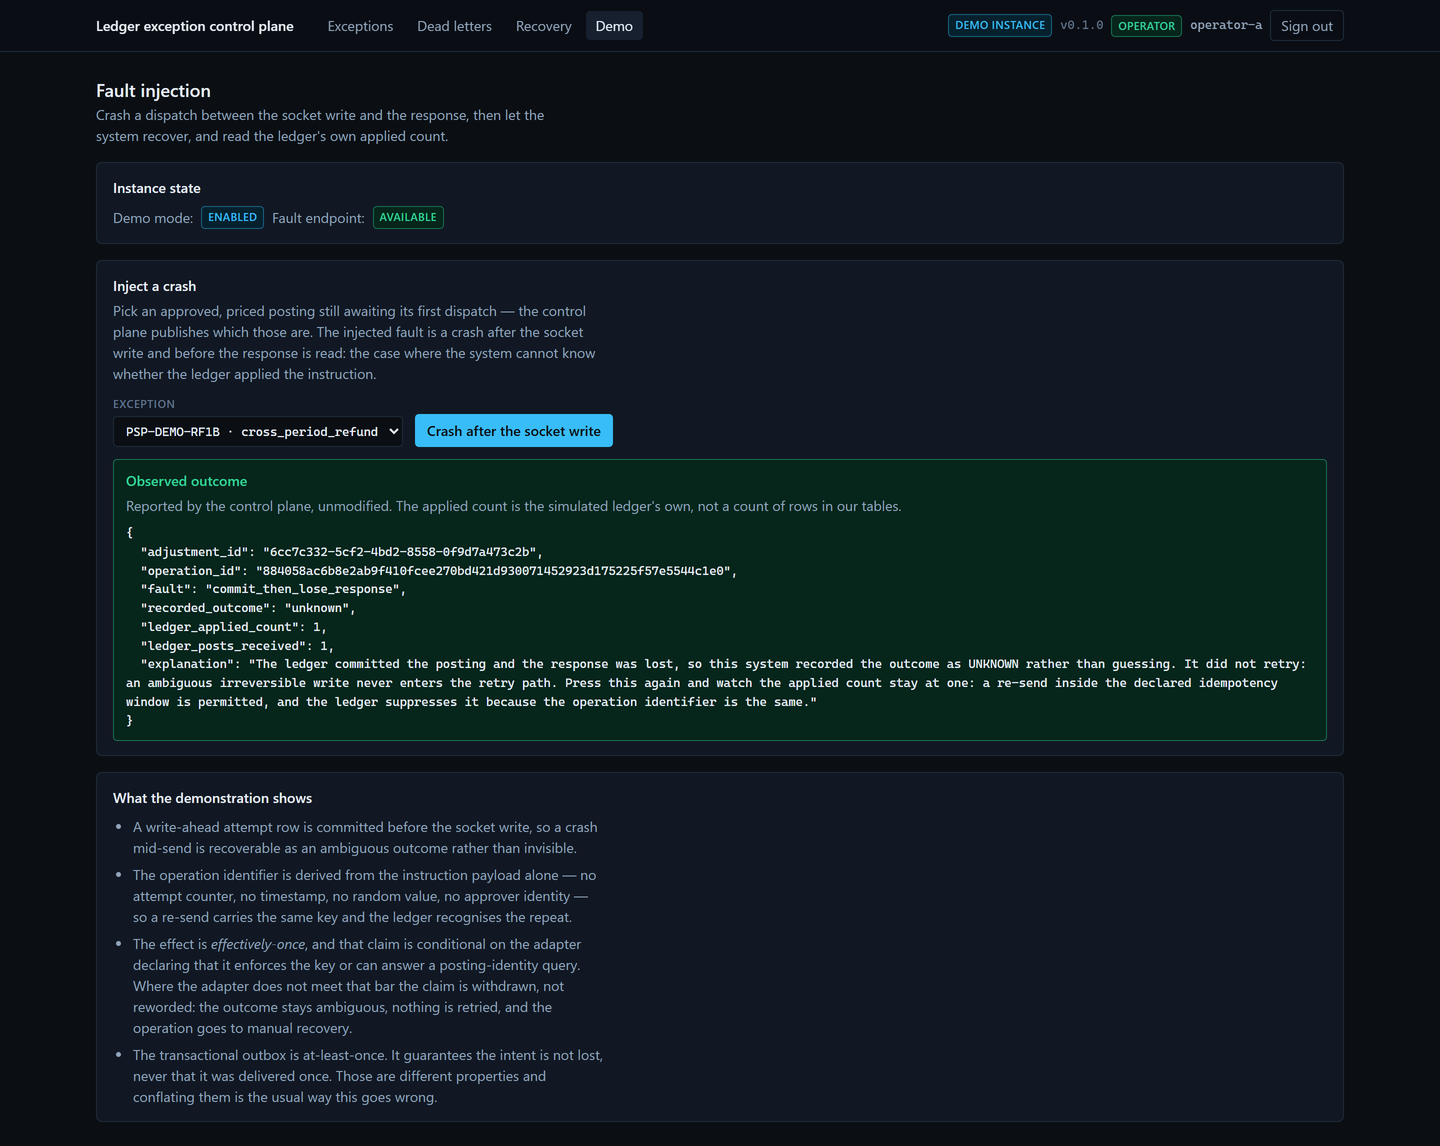
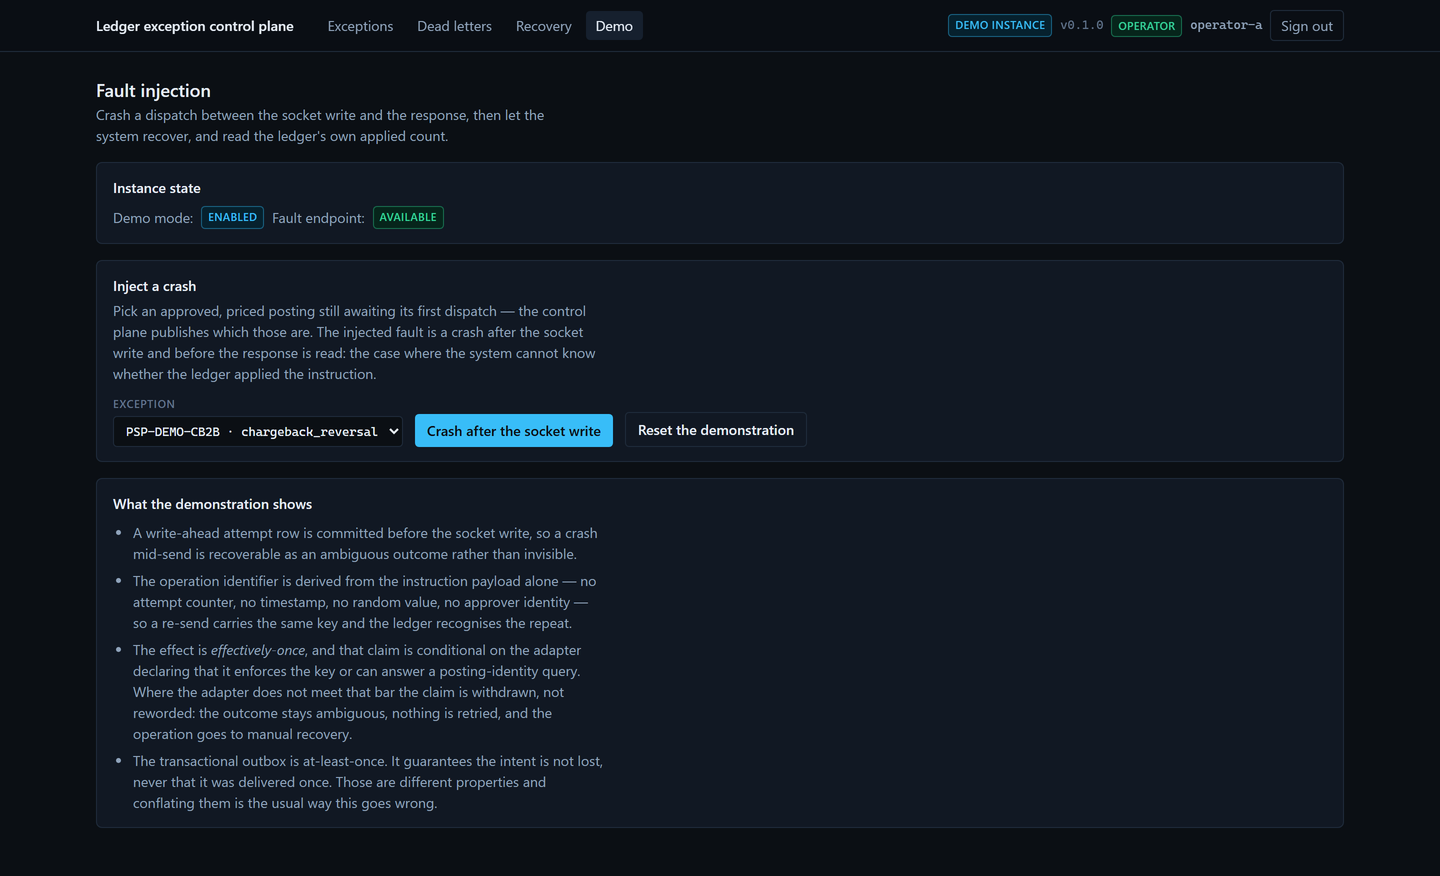
docs: real screenshots from the live deployment
Four captures from the deployed console at its public URL, signed in with the
published demo tokens — replacing the equivalents taken against a laptop. Same
filenames, so every existing link stays valid, and the repository carries one set
rather than two.

The fault-injection capture shows the reset control that the live validation made
necessary.

Changed region(s): [[0.0625, 0.0, 0.9062, 0.9863], [0.6562, 0.0, 0.9375, 0.0616]]

diff --git a/README.md b/README.md
@@ -372,9 +372,10 @@ Compose stack against the `lecp` database, which the seeder refuses to touch —
 is disposable and `lecp` is not. Pointed there, the console renders correct empty states over a
 database it is not reading, which is the worst of the three outcomes because nothing looks broken.
 
-### The console, on the seeded demonstration
+### The console, on the live deployment
 
-Captured from the running console against the database `make demo` produces. Not mock-ups.
+Captured from **the deployed console at the URL above**, signed in with the published demo tokens.
+Not mock-ups, and not a local run.
 
 **The queue.** Seven residuals the deterministic matcher could not clear, with the stage each has
 reached. The four cleared lines are not here, which is the point.
